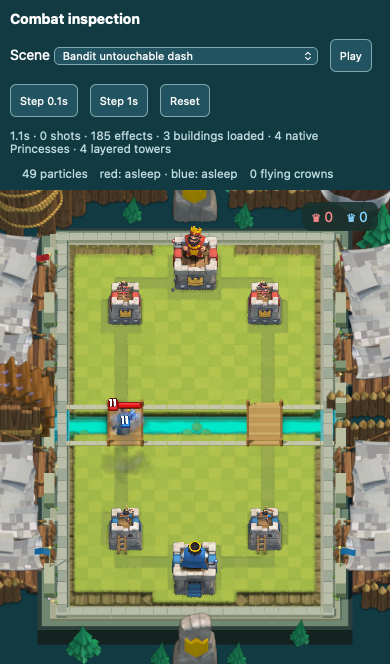
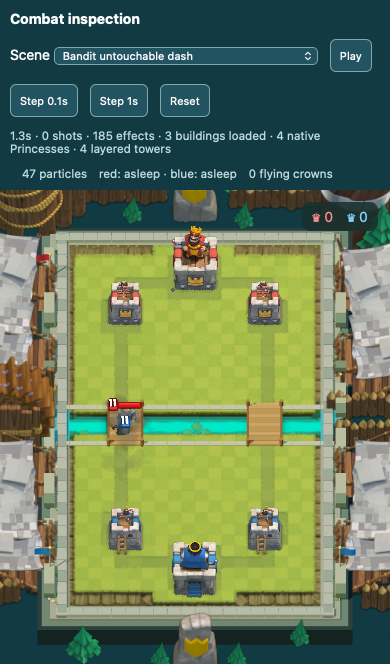
Document Bandit afterimages and phone visual QA

diff --git a/docs/ASSETS.md b/docs/ASSETS.md
@@ -346,6 +346,6 @@ Inspected scenes: [desktop summon](screenshots/night-witch-summon.png), [phone s
 
 `npm run assets:bandit` pins the archived `spells_characters.Assassin` and `characters.Assassin` rows, the `chr_bandit` binary and texture, and the original `bandit` portrait in `reference/client/bandit-manifest.json`. The three-elixir Legendary troop has 750 base hitpoints, 160 base damage, 90 source movement speed and 0.75-tile ground-only reach. The two approximate Legendary upgrades used by this level-11 roster give 908 hitpoints and 194 normal damage. Her model supplies 72 original blue/red directional idle, run, attack and dash clips. Health, Legendary deployment filter, death effects and source combat audio bind through the retained client rows.
 
-The archived dash starts when a target is four to six tiles away, travels at `JumpSpeed=500` mapped to 8.33 tiles per second, and lands for 320 base damage (387 in the playable roster). The browser keeps Bandit untouchable by damage and stun during this motion, then starts the one-second source dash cooldown. Original charge, travel, landing and special-hit sounds play through the combat audio plan. Native `assassin_buff` particles mark dash start and landing, and the blue/red special hit uses its archived smoke and sparkle emitters. The 60-frame `filter_bandit_charge` matrix/color overlay now follows her dash and composes with Rage and other sprite filters. The original travel emitter references the character model itself; the browser currently shows the native dash pose and motion without that repeated silhouette trail. Target movement and collision are resolved deterministically for replays and peer snapshots.
+The archived dash starts when a target is four to six tiles away, travels at `JumpSpeed=500` mapped to 8.33 tiles per second, and lands for 320 base damage (387 in the playable roster). The browser keeps Bandit untouchable by damage and stun during this motion, then starts the one-second source dash cooldown. Original charge, travel, landing and special-hit sounds play through the combat audio plan. Native `assassin_buff` particles mark dash start and landing, and the blue/red special hit uses its archived smoke and sparkle emitters. The 60-frame `filter_bandit_charge` matrix/color overlay now follows her dash and composes with Rage and other sprite filters. `npm run assets:bandit-trail` pins the `assassin_dashing` blue/red emitters: eight model-based directional afterimages at 25-ms intervals, each lasting 300–400 ms. The browser draws their original dash frames along the replayable start-to-landing path; sampled lifetime and fading are deterministic approximations within the source ranges. Target movement and collision are resolved deterministically for replays and peer snapshots.
 
 Inspected scenes: [desktop dash](screenshots/bandit-dash.png), [phone dash](screenshots/phone-bandit-dash.png), [phone landing](screenshots/phone-bandit-landing.png) and [phone real-hand deployment](screenshots/phone-bandit-deployed.png).

diff --git a/docs/QA.md b/docs/QA.md
@@ -710,3 +710,5 @@ Three simulation/asset checks pin the archived card, dash ranges, native model a
 Desktop Chromium and phone WebKit each passed a staged dash/landing scene and real-hand selection/deployment (four browser cases). The broader card, responsive and battle/replay run passed 15 cases, while one existing search assertion failed on all three engines because “dragon” matched both Baby Dragon and Inferno Dragon. Searching for the intended exact card name passed on desktop Chromium, phone Chromium and phone WebKit. The final run has 339 simulation/asset tests, type checking and a production build. Offline production reload starts a battle with the browser match worker and all 235 unique native combat/death audio files in a 799-file cache (version `4cfe264dbcf0`). The mixed Chromium/WebKit direct-peer suite passes both cases. Captures are `docs/screenshots/bandit-dash.png`, `docs/screenshots/phone-bandit-dash.png`, `docs/screenshots/phone-bandit-landing.png` and `docs/screenshots/phone-bandit-deployed.png`. Physical devices and restrictive remote networks remain unverified because the front-end-only build has no TURN relay.
 
 The Bandit filter follow-up pins all 60 source matrix/color poses at 60 FPS and verifies their hashes, age selection, composition with Rage, and immediate cleanup on landing. Desktop Chromium and phone WebKit staged dash scenes both pass with the filter applied. The updated dash screenshots show this final overlay. All 341 simulation/asset tests, type checking and the production build pass. Offline reload starts a battle and loads all 235 native audio files from the 799-file cache (version `1921a3fd7e7b`).
+
+The directional-afterimage follow-up pins the archived blue/red nine-direction model export lists, eight-particle count, 25-ms emission spacing and 300–400-ms lifetimes. Two tests reconstruct the same trail from late/seeked snapshots and verify guest-perspective rotation of the start event and actor state. Desktop Chromium and phone WebKit staged scenes pass with at least six visible afterimages during the dash; screenshots now capture this middle-of-dash frame. All 343 simulation/asset tests, type checking and the production build pass. The offline reload starts a battle with all 235 native audio files in the 799-file cache (version `103992cab5b5`); both mixed Chromium/WebKit direct-peer cases pass.
